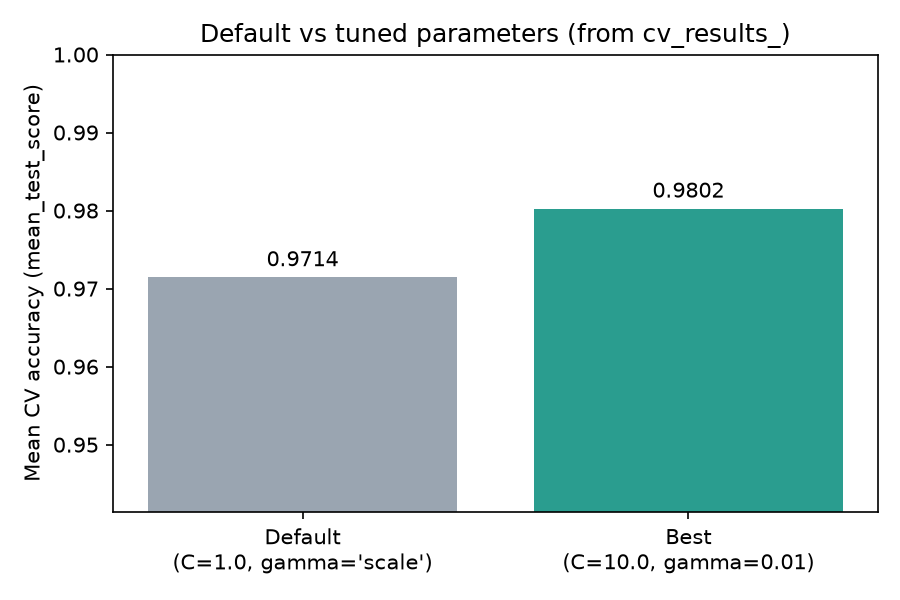
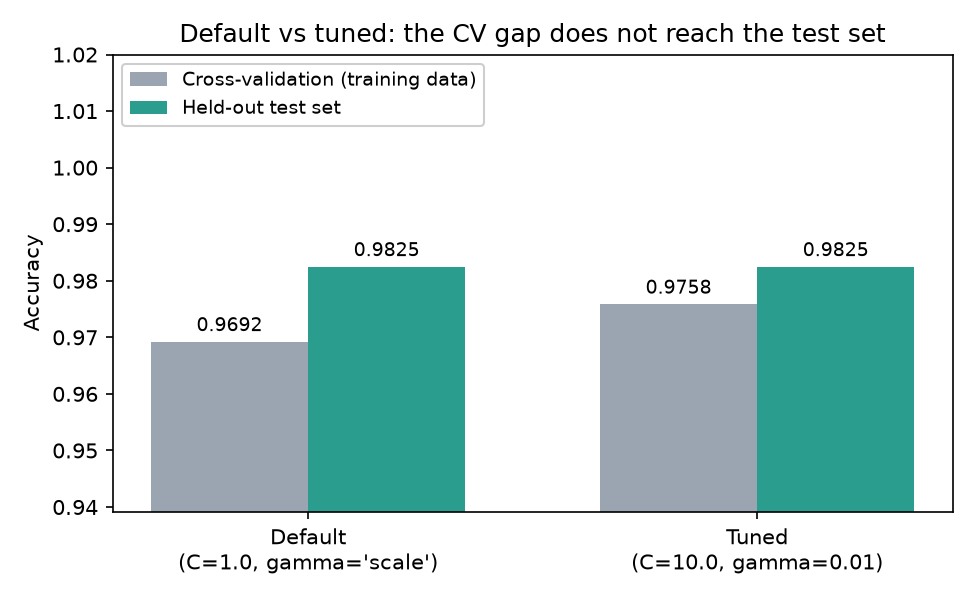
Settle the tuning comparison on the test set, not on cv_results_
The page compared best_score_ against the default row in cv_results_ and
hedged with fold noise. That hedge named the harmless half of the
problem: noise pushes both ways, but best_score_ is the maximum of 16
scores measured on those exact folds while the default's score is one
unselected number, so the comparison leans towards "tuned" on every
dataset whether or not tuning helped. The test set was already sitting
there unused for the default.

"What cv_results_ looks like" and "Reading the comparison" are gone. In
their place the defaults are refit on the same training data and both
models are scored on the test set: 0.9825 against 0.9825, with the two
models making the same prediction on all 114 test rows. The bar chart is
now grouped, CV beside test, so the gap that closes is visible rather
than described. cv_results_ keeps its development role — the note on the
grid records that the defaults rank 3rd of 16.

The folds are now an explicit StratifiedKFold(shuffle=True,
random_state=42), matching the other two pages, and refit=True is
spelled out on GridSearchCV since everything downstream depends on it.

The closing section gains the warning it was missing. "Use the same
cross-validation setup" is necessary but not sufficient when comparing
tuning strategies: both numbers are maxima of searches with different
appetites, and a greedier search digs up more fold-luck. Since this page
and the metaheuristic one share a split and folds, the pattern is now
[…]

Changed region(s): [[0.0311, 0.03, 0.9022, 0.96], [0.5911, 0.09, 0.9956, 0.96], [0.4667, 0.18, 0.4978, 0.21]]

diff --git a/docs/gridsearch-comparison.md b/docs/gridsearch-comparison.md
@@ -2,28 +2,32 @@
 
 Tuning is not finished when `GridSearchCV` reports a best score. This
 page walks the whole workflow on one example: **search** a parameter
-grid, **compare** the tuned result against the defaults honestly, then
-**use** the resulting model — evaluate it on held-out data, save it to
-disk, load it back, and predict.
+grid, **judge** the tuned result against the defaults where it counts —
+on held-out data — then **use** the resulting model: save it to disk,
+load it back, and predict.
 
 ## Setting up the search
 
-Two decisions here matter more than the grid itself.
+Three decisions here matter more than the grid itself.
 
-**Hold out a test set before tuning.** The cross-validated score
-inside `GridSearchCV` is used to *choose* parameters, so it is no
-longer an unbiased estimate of how the chosen model performs. Keeping a
-test set aside gives you a number that the search never saw.
+**Hold out a test set before tuning.** The cross-validated score inside
+`GridSearchCV` is used to *choose* parameters, so it is no longer an
+unbiased estimate of how the chosen model performs. Keeping a test set
+aside gives you a number the search never saw.
 
 **Put preprocessing inside a `Pipeline`.** Scaling the full dataset
 before splitting leaks test statistics into training. A pipeline scales
 within each CV fold, and — as the last section shows — it also means the
 saved model carries its own preprocessing.
 
+**Fix the folds explicitly.** A bare `cv=5` builds folds in row order,
+which is a trap on any dataset that happens to be sorted; and every one
+of the 16 combinations is scored on those same folds, so it is worth
+deciding what they are rather than inheriting them.
+
 ```python
-import pandas as pd
 from sklearn.datasets import load_breast_cancer
-from sklearn.model_selection import GridSearchCV, train_test_split
+from sklearn.model_selection import GridSearchCV, StratifiedKFold, train_test_split
 from sklearn.pipeline import Pipeline
 from sklearn.preprocessing import StandardScaler
 from sklearn.svm import SVC
@@ -32,6 +36,8 @@ X, y = load_breast_cancer(return_X_y=True)
 X_train, X_test, y_train, y_test = train_test_split(
     X, y, test_size=0.2, stratify=y, random_state=42)
 
+CV = StratifiedKFold(5, shuffle=True, random_state=42)
+
 pipe = Pipeline([("scaler", StandardScaler()),
                  ("svc", SVC(kernel="rbf"))])
 
@@ -39,152 +45,42 @@ param_grid = {
     "svc__C": [0.1, 1.0, 10.0, 100.0],        # 1.0     = sklearn default
     "svc__gamma": ["scale", 0.01, 0.1, 1.0],  # "scale" = sklearn default
 }
-grid = GridSearchCV(pipe, param_grid, cv=5, n_jobs=-1)
+grid = GridSearchCV(pipe, param_grid, cv=CV, refit=True, n_jobs=-1)
 grid.fit(X_train, y_train)
 
 print("train:", X_train.shape, " test:", X_test.shape)
+print("best params:", grid.best_params_)
+print(f"best CV score: {grid.best_score_:.4f}")
 ```
 
 Output:
 
 ```text
 train: (455, 30)  test: (114, 30)
+best params: {'svc__C': 10.0, 'svc__gamma': 0.01}
+best CV score: 0.9758
 ```
 
 The `svc__` prefix is how a pipeline addresses a step's parameters:
 `<step name>__<parameter>`.
 
-## Comparing against the defaults
+`refit=True` is the default and is spelled out here because the rest of
+the page depends on it: after the search finishes, scikit-learn refits
+the winning configuration on the **whole training set** and stores it as
+`best_estimator_`. Without it there is no fitted model to use, only a
+table of scores.
 
-A common mistake is to *re-run* the model with default parameters just
-to compare against the tuned result. That re-run is unnecessary — and
-worse, a fresh split would make the two numbers incomparable. The
-search has already evaluated every combination in the grid on the same
-CV folds, and stored every score in `cv_results_`.
+!!! note "Why the defaults are inside the grid"
+    `1.0` and `"scale"` are scikit-learn's defaults for `C` and
+    `gamma`, so `cv_results_` shows where the out-of-the-box model
+    ranks: **3rd of 16**, at 0.9692 against the winner's 0.9758. That is
+    useful for the development narrative — it says the defaults were
+    already in a good region — but it is not the comparison that decides
+    anything. The next section explains why.
 
-!!! warning "Include the default values in the grid"
-    The comparison only works if the estimator's **default parameter
-    combination is inside the searched grid**. If the defaults are not
-    among the evaluated combinations, `cv_results_` has no score for
-    them and you would have to evaluate them separately — losing the
-    guarantee that both scores came from the exact same folds.
+## The tuned model
 
-That is why `1.0` and `"scale"` appear in the grid above.
-
-### What `cv_results_` looks like
-
-`cv_results_` is a dict of arrays with one entry per combination; as a
-DataFrame each row holds the combination (`params`, plus one
-`param_<name>` column per parameter) and its cross-validated
-performance. With a 4x4 grid there are 16 rows:
-
-```python
-results = pd.DataFrame(grid.cv_results_)
-cols = ["param_svc__C", "param_svc__gamma", "mean_test_score",
-        "std_test_score", "rank_test_score"]
-print(results[cols].sort_values("rank_test_score").head(6).to_string(index=False))
-```
-
-Output:
-
-```text
- param_svc__C param_svc__gamma  mean_test_score  std_test_score  rank_test_score
-         10.0             0.01         0.980220        0.016150                1
-          1.0            scale         0.971429        0.017855                2
-         10.0            scale         0.971429        0.017855                2
-          1.0             0.01         0.969231        0.023466                4
-        100.0             0.01         0.969231        0.016150                4
-          1.0              0.1         0.960440        0.016447                6
-```
-
-How to read it:
-
-- **`mean_test_score`** — the score averaged over the 5 CV folds; this
-  is the number we compare.
-- **`std_test_score`** — the spread across folds; larger values mean
-  the score is less certain.
-- **`rank_test_score`** — 1 is the winner (`grid.best_params_`). Note
-  where the default combination (`C=1.0, gamma="scale"`) sits: **rank 2
-  of 16**, tied with another combination. Already decent, but not the
-  best — and that is the whole comparison, visible in the table.
-
-### Reading the comparison
-
-No model is retrained below — everything is a lookup:
-
-```python
-default_params = {"svc__C": 1.0, "svc__gamma": "scale"}
-default_row = results.loc[
-    results["params"].apply(lambda p: p == default_params)
-].iloc[0]
-best_row = results.iloc[grid.best_index_]
-
-print("default:", default_params, "->", default_row["mean_test_score"])
-print("best   :", grid.best_params_, "->", best_row["mean_test_score"])
-```
-
-Output:
-
-```text
-default: {'svc__C': 1.0, 'svc__gamma': 'scale'} -> 0.9714285714285715
-best   : {'svc__C': 10.0, 'svc__gamma': 0.01} -> 0.9802197802197803
-```
-
-Two details worth pointing out to students:
-
-- `grid.best_score_` is by definition the maximum `mean_test_score` in
-  `cv_results_` — the "best" row is not special, it is just the row
-  that happened to win.
-- Because every combination was scored on the **same CV folds**, the
-  two numbers are directly comparable. That is exactly what a manual
-  re-run with a fresh split would *not* guarantee.
-
-### The bar chart
-
-```python
-import matplotlib.pyplot as plt
-
-labels = ["Default\n(C=1.0, gamma='scale')",
-          f"Best\n(C={grid.best_params_['svc__C']}, "
-          f"gamma={grid.best_params_['svc__gamma']})"]
-scores = [default_row["mean_test_score"], best_row["mean_test_score"]]
-
-fig, ax = plt.subplots(figsize=(6, 4))
-bars = ax.bar(labels, scores, color=["#9aa5b1", "#2a9d8f"])
-ax.set_ylabel("Mean CV accuracy (mean_test_score)")
-ax.set_ylim(min(scores) - 0.03, 1.0)
-ax.bar_label(bars, fmt="%.4f", padding=3)
-ax.set_title("Default vs tuned parameters (from cv_results_)")
-fig.tight_layout()
-plt.show()
-```
-
-The result:
-
-![Bar chart: default vs tuned parameters](img/gridsearch_comparison.png)
-
-Tuning moved the cross-validated accuracy from **0.9714** to
-**0.9802** — a real but modest gain, which is itself a useful lesson.
-Read it next to `std_test_score` from the table above: the spread across
-folds is 0.0179 and 0.0162, both **larger than the 0.0088 gap between
-the bars**. Some of that difference could be fold-to-fold noise rather
-than a genuinely better model, which is why the chart alone never
-settles the question.
-
-!!! note "About the truncated y-axis"
-    The chart starts its y-axis near the scores to make the difference
-    visible. When presenting results, always mention this — a truncated
-    axis exaggerates differences, which is fine for inspection but can
-    mislead in a report.
-
-## Using the tuned model
-
-### `best_estimator_` is already trained
-
-With the default `refit=True`, `GridSearchCV` refits the winning
-configuration on the **whole training set** once the search finishes.
-So there is no need to rebuild anything by hand — assign it to a
-variable and it is ready to predict:
+`best_estimator_` is already trained, so there is nothing to rebuild:
 
 ```python
 model = grid.best_estimator_
@@ -201,9 +97,92 @@ Note what came back: the entire **pipeline**, not just the `SVC`. It
 carries its own `StandardScaler`, already fitted on the training data,
 so it takes raw features and handles the scaling itself.
 
-### Evaluating on the held-out test set
+## Comparing against the defaults — on the test set
 
-This is the number to report, because the search never saw these rows:
+It is tempting to stop at `best_score_` versus the default row in
+`cv_results_`. Both numbers come from the same folds, so they look
+comparable, and the fold-to-fold spread is easy to quote as the caveat.
+But fold noise is only half the problem, and it is the harmless half —
+it pushes both ways.
+
+The other half is systematic. `best_score_` is by definition the
+**maximum of 16 scores measured on those exact folds**; the default's
+score is one unselected number. Taking a maximum over candidates picks
+up whatever fold-luck the winner happened to have, so the comparison
+leans towards "tuned" every time, on every dataset, whether or not the
+tuning helped. That bias does not average out with more folds.
+
+The test set is already in hand, so the question can be settled where
+every other question on these pages is settled. Fit the defaults on the
+same training data and score both models on the test set:
+
+```python
+default_model = Pipeline([("scaler", StandardScaler()),
+                          ("svc", SVC(kernel="rbf"))]).fit(X_train, y_train)
+
+print(f"CV   — default 0.9692   tuned {grid.best_score_:.4f}")
+print(f"Test — default {default_model.score(X_test, y_test):.4f}   "
+      f"tuned {model.score(X_test, y_test):.4f}")
+print("Test predictions that agree:",
+      f"{(default_model.predict(X_test) == model.predict(X_test)).sum()}/{len(y_test)}")
+```
+
+Output:
+
+```text
+CV   — default 0.9692   tuned 0.9758
+Test — default 0.9825   tuned 0.9825
+Test predictions that agree: 114/114
+```
+
+### The bar chart
+
+```python
+import matplotlib.pyplot as plt
+import numpy as np
+
+cv_scores = [0.9692, grid.best_score_]
+test_scores = [default_model.score(X_test, y_test), model.score(X_test, y_test)]
+labels = ["Default\n(C=1.0, gamma='scale')", "Tuned\n(C=10.0, gamma=0.01)"]
+
+x = np.arange(len(labels))
+width = 0.35
+
+fig, ax = plt.subplots(figsize=(6.5, 4))
+b1 = ax.bar(x - width / 2, cv_scores, width, color="#9aa5b1",
+            label="Cross-validation (training data)")
+b2 = ax.bar(x + width / 2, test_scores, width, color="#2a9d8f",
+            label="Held-out test set")
+ax.set_xticks(x, labels)
+ax.set_ylabel("Accuracy")
+ax.set_ylim(min(cv_scores) - 0.03, 1.02)
+ax.bar_label(b1, fmt="%.4f", padding=3, fontsize=9)
+ax.bar_label(b2, fmt="%.4f", padding=3, fontsize=9)
+ax.set_title("Default vs tuned: the CV gap does not reach the test set")
+ax.legend(loc="upper left", fontsize=9, framealpha=0.95)
+fig.tight_layout()
+plt.show()
+```
+
+The result:
+
+![Bar chart: default vs tuned, cross-validation against test set](img/gridsearch_comparison.png)
+
+On the folds, tuning gains 0.66 accuracy points. On the test set it
+gains nothing: both models score 0.9825, and they do not merely tie —
+they make the **same prediction on all 114 test rows**. The grid search
+was not wasted; it is how you learn that `C=1`, `gamma="scale"` was
+already a good choice for this data. But "tuning improved the model" is
+a claim the test set does not support here, and only the test set could
+have told you that.
+
+!!! note "About the truncated y-axis"
+    The chart starts its y-axis near the scores to make the differences
+    visible. When presenting results, always mention this — a truncated
+    axis exaggerates differences, which is fine for inspection but can
+    mislead in a report.
+
+### What the tuned model does on the test set
 
 ```python
 from sklearn.metrics import accuracy_score, classification_report
@@ -218,7 +197,6 @@ Output:
 
 ```text
 accuracy: 0.9825
-
               precision    recall  f1-score   support
 
    malignant       0.98      0.98      0.98        42
@@ -229,10 +207,12 @@ accuracy: 0.9825
 weighted avg       0.98      0.98      0.98       114
 ```
 
-The test accuracy (0.9825) is slightly *higher* than the
-cross-validated score (0.9802). That is normal variation on 114 test
-samples, not evidence that the model improved — with a test set this
-small, a single sample changes accuracy by almost a percentage point.
+The test accuracy (0.9825) is *higher* than the cross-validated score
+(0.9758). That is normal variation on 114 test samples, not evidence
+that the model improved — with a test set this small, a single sample
+moves accuracy by almost a percentage point.
+
+## Using the tuned model
 
 ### Saving the model with `pickle`
 
@@ -313,12 +293,35 @@ actual   : [0 1 0 1 0]
     scikit-learn recommendation: same interface, more efficient with the
     large NumPy arrays that fitted estimators contain.
 
-## Beyond two bars
+## Comparing tuning strategies
 
-Since `cv_results_` holds *every* combination, the same technique
-extends to richer views without any retraining: plot all 16
-combinations sorted by `mean_test_score`, or pivot `C` against `gamma`
-into a heatmap. And when comparing grid search against other tuning
-strategies — such as the metaheuristic approach in
-[Hyperparameter Optimization](parameter-optimization.md) — the same rule
-applies: compare scores obtained under the same cross-validation setup.
+`cv_results_` holds *every* combination, so the same object supports
+richer development views without retraining: all 16 combinations sorted
+by `mean_test_score`, or `C` pivoted against `gamma` as a heatmap. Those
+are diagnostics — they describe the search, not the model.
+
+Comparing grid search against another tuning strategy — the
+metaheuristic search in
+[Hyperparameter Optimization](parameter-optimization.md), say — needs
+more care than "use the same cross-validation setup". That rule is
+necessary but not sufficient, because both numbers are **maxima of
+searches with different appetites**: 16 combinations here against 150
+evaluations there. A greedier search digs up more fold-luck, so
+comparing two CV maxima systematically favours whichever strategy looked
+harder, independently of whether it found a better model.
+
+This page and that one use the identical split and the identical folds,
+so the two are directly comparable — and they show the pattern exactly:
+
+| | Best CV score | Test accuracy |
+|---|---|---|
+| Default `SVC()` | 0.9692 | 0.9825 |
+| Grid search, 16 combinations | 0.9758 | 0.9825 |
+| ACO-R, 150 evaluations | 0.9780 | 0.9825 |
+
+The CV column ranks the three exactly by how hard each one searched. The
+test column, which is the one that answers the question anyone actually
+asked, cannot tell them apart. A fair comparison of tuning strategies
+therefore ends where this page ends: each strategy produces its final
+configuration, both are refit on the same training data, and the verdict
+comes from the test set.
